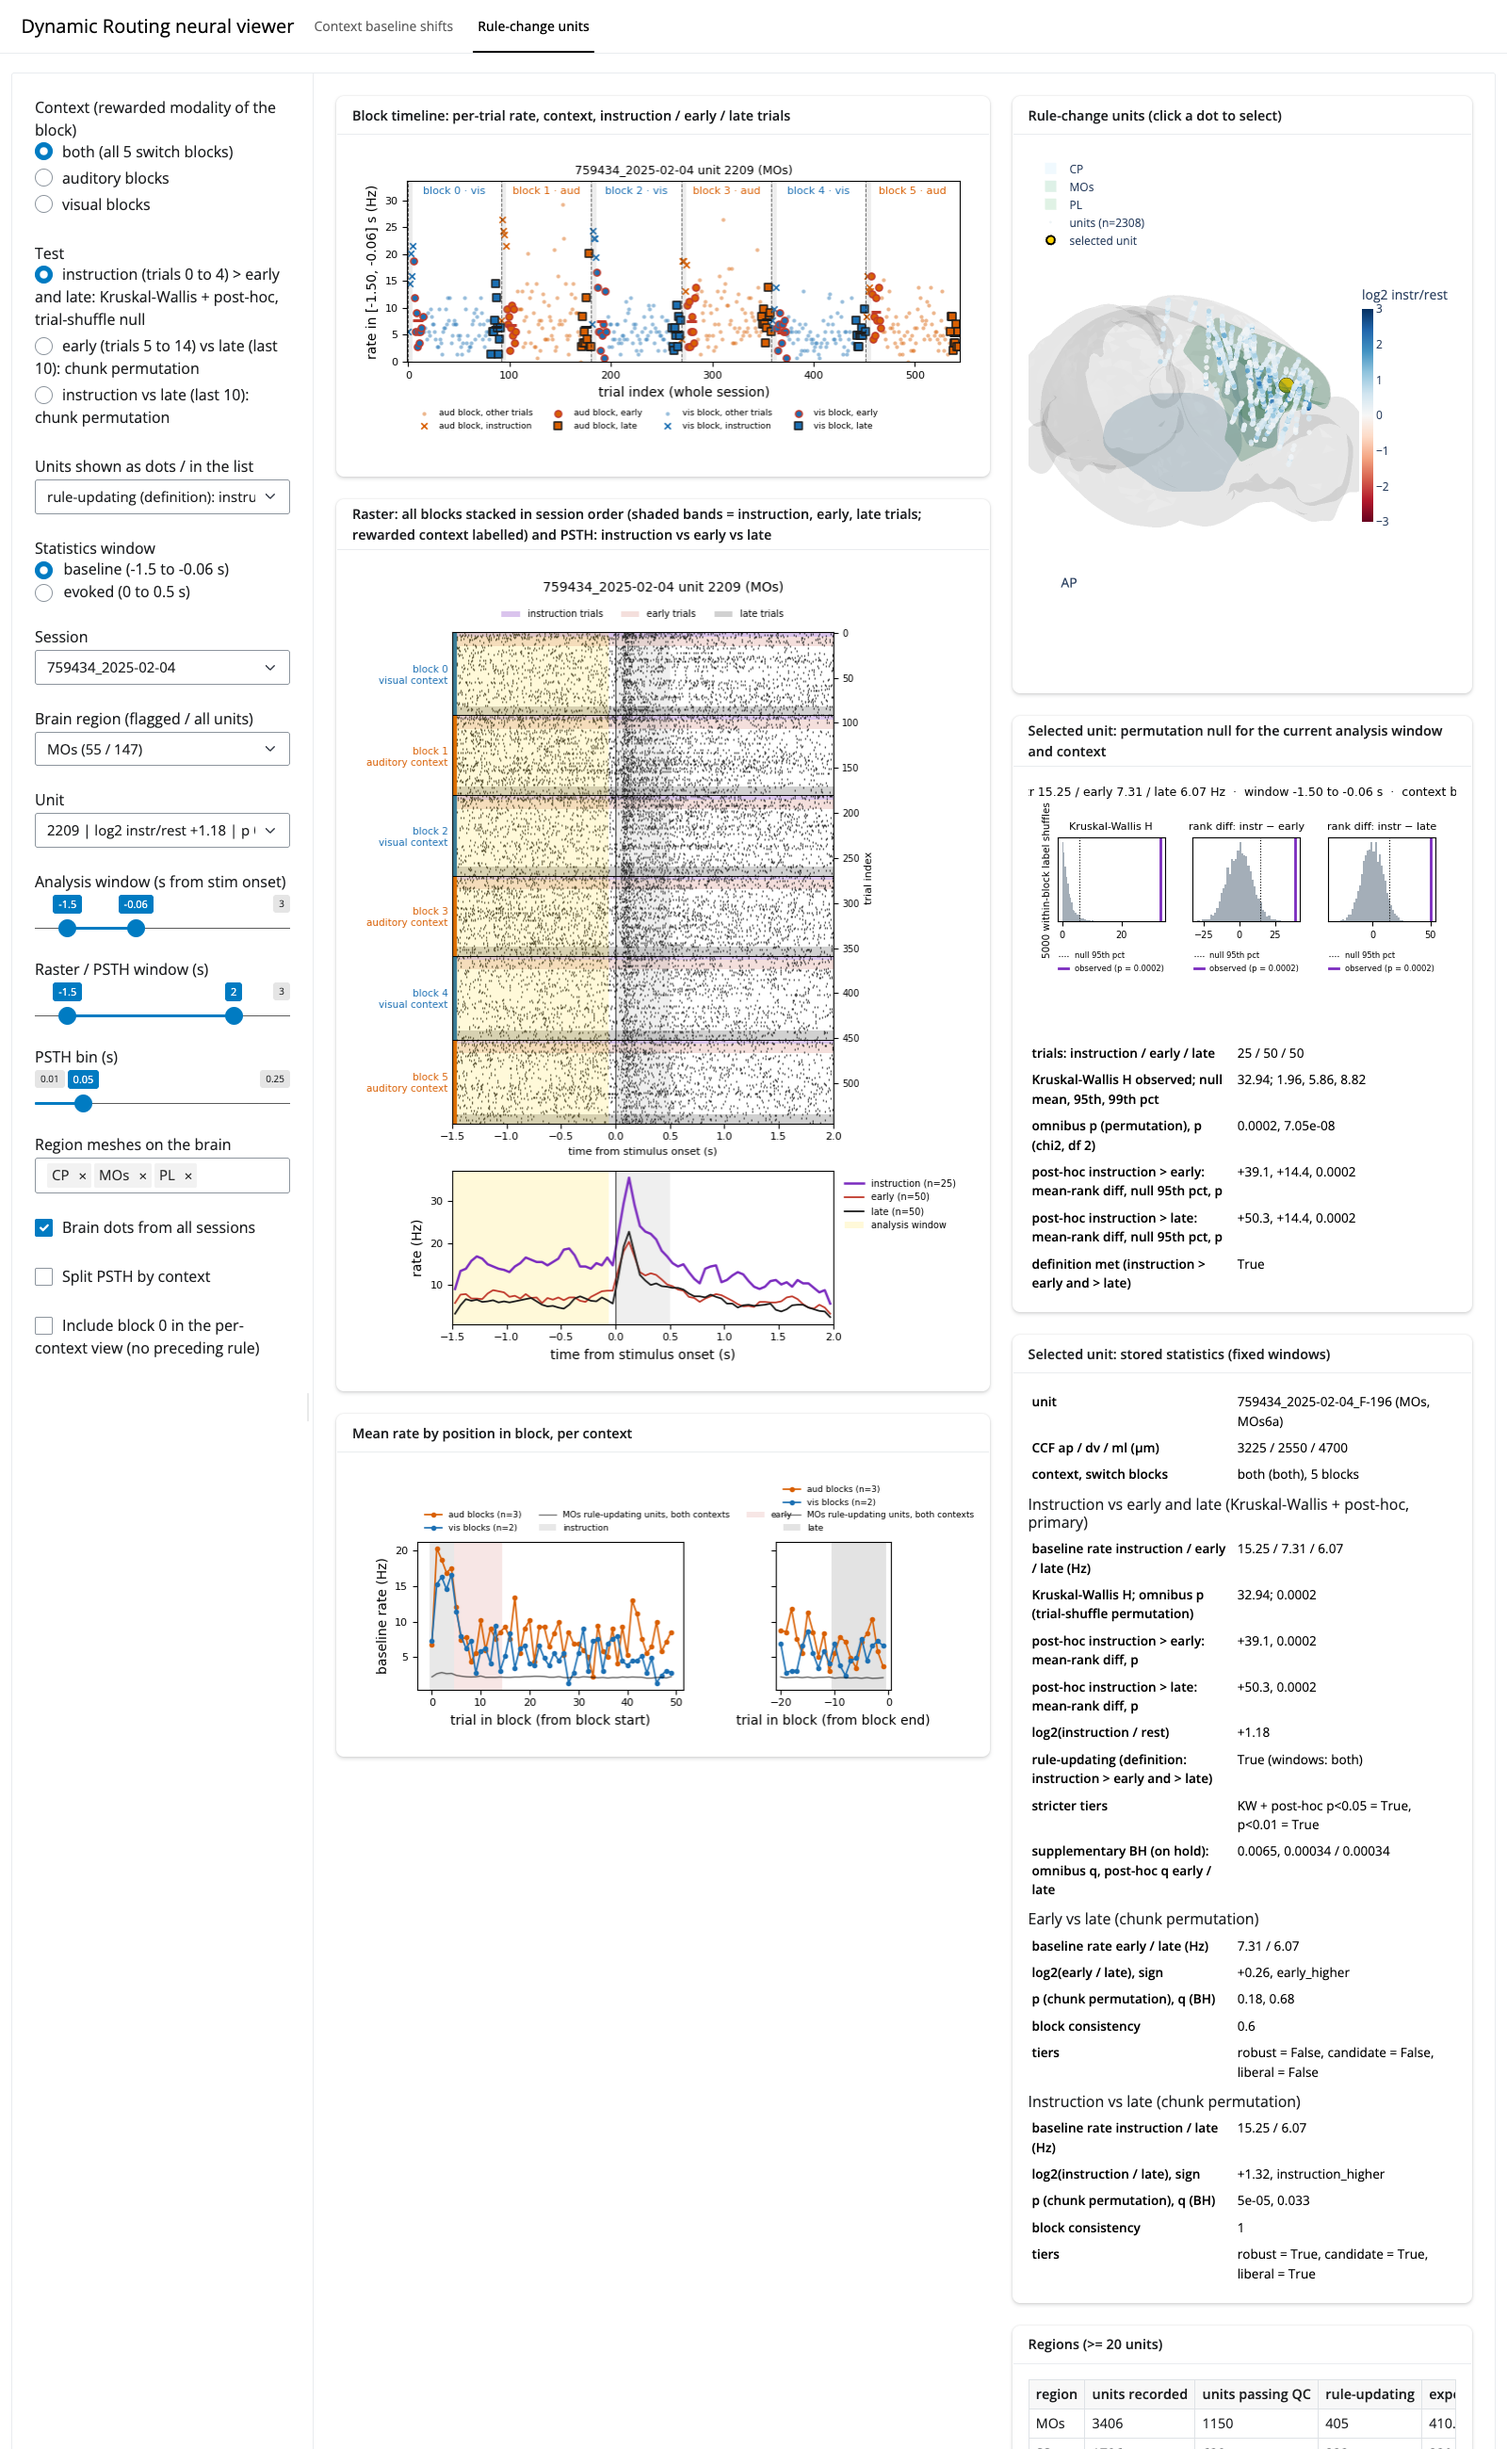
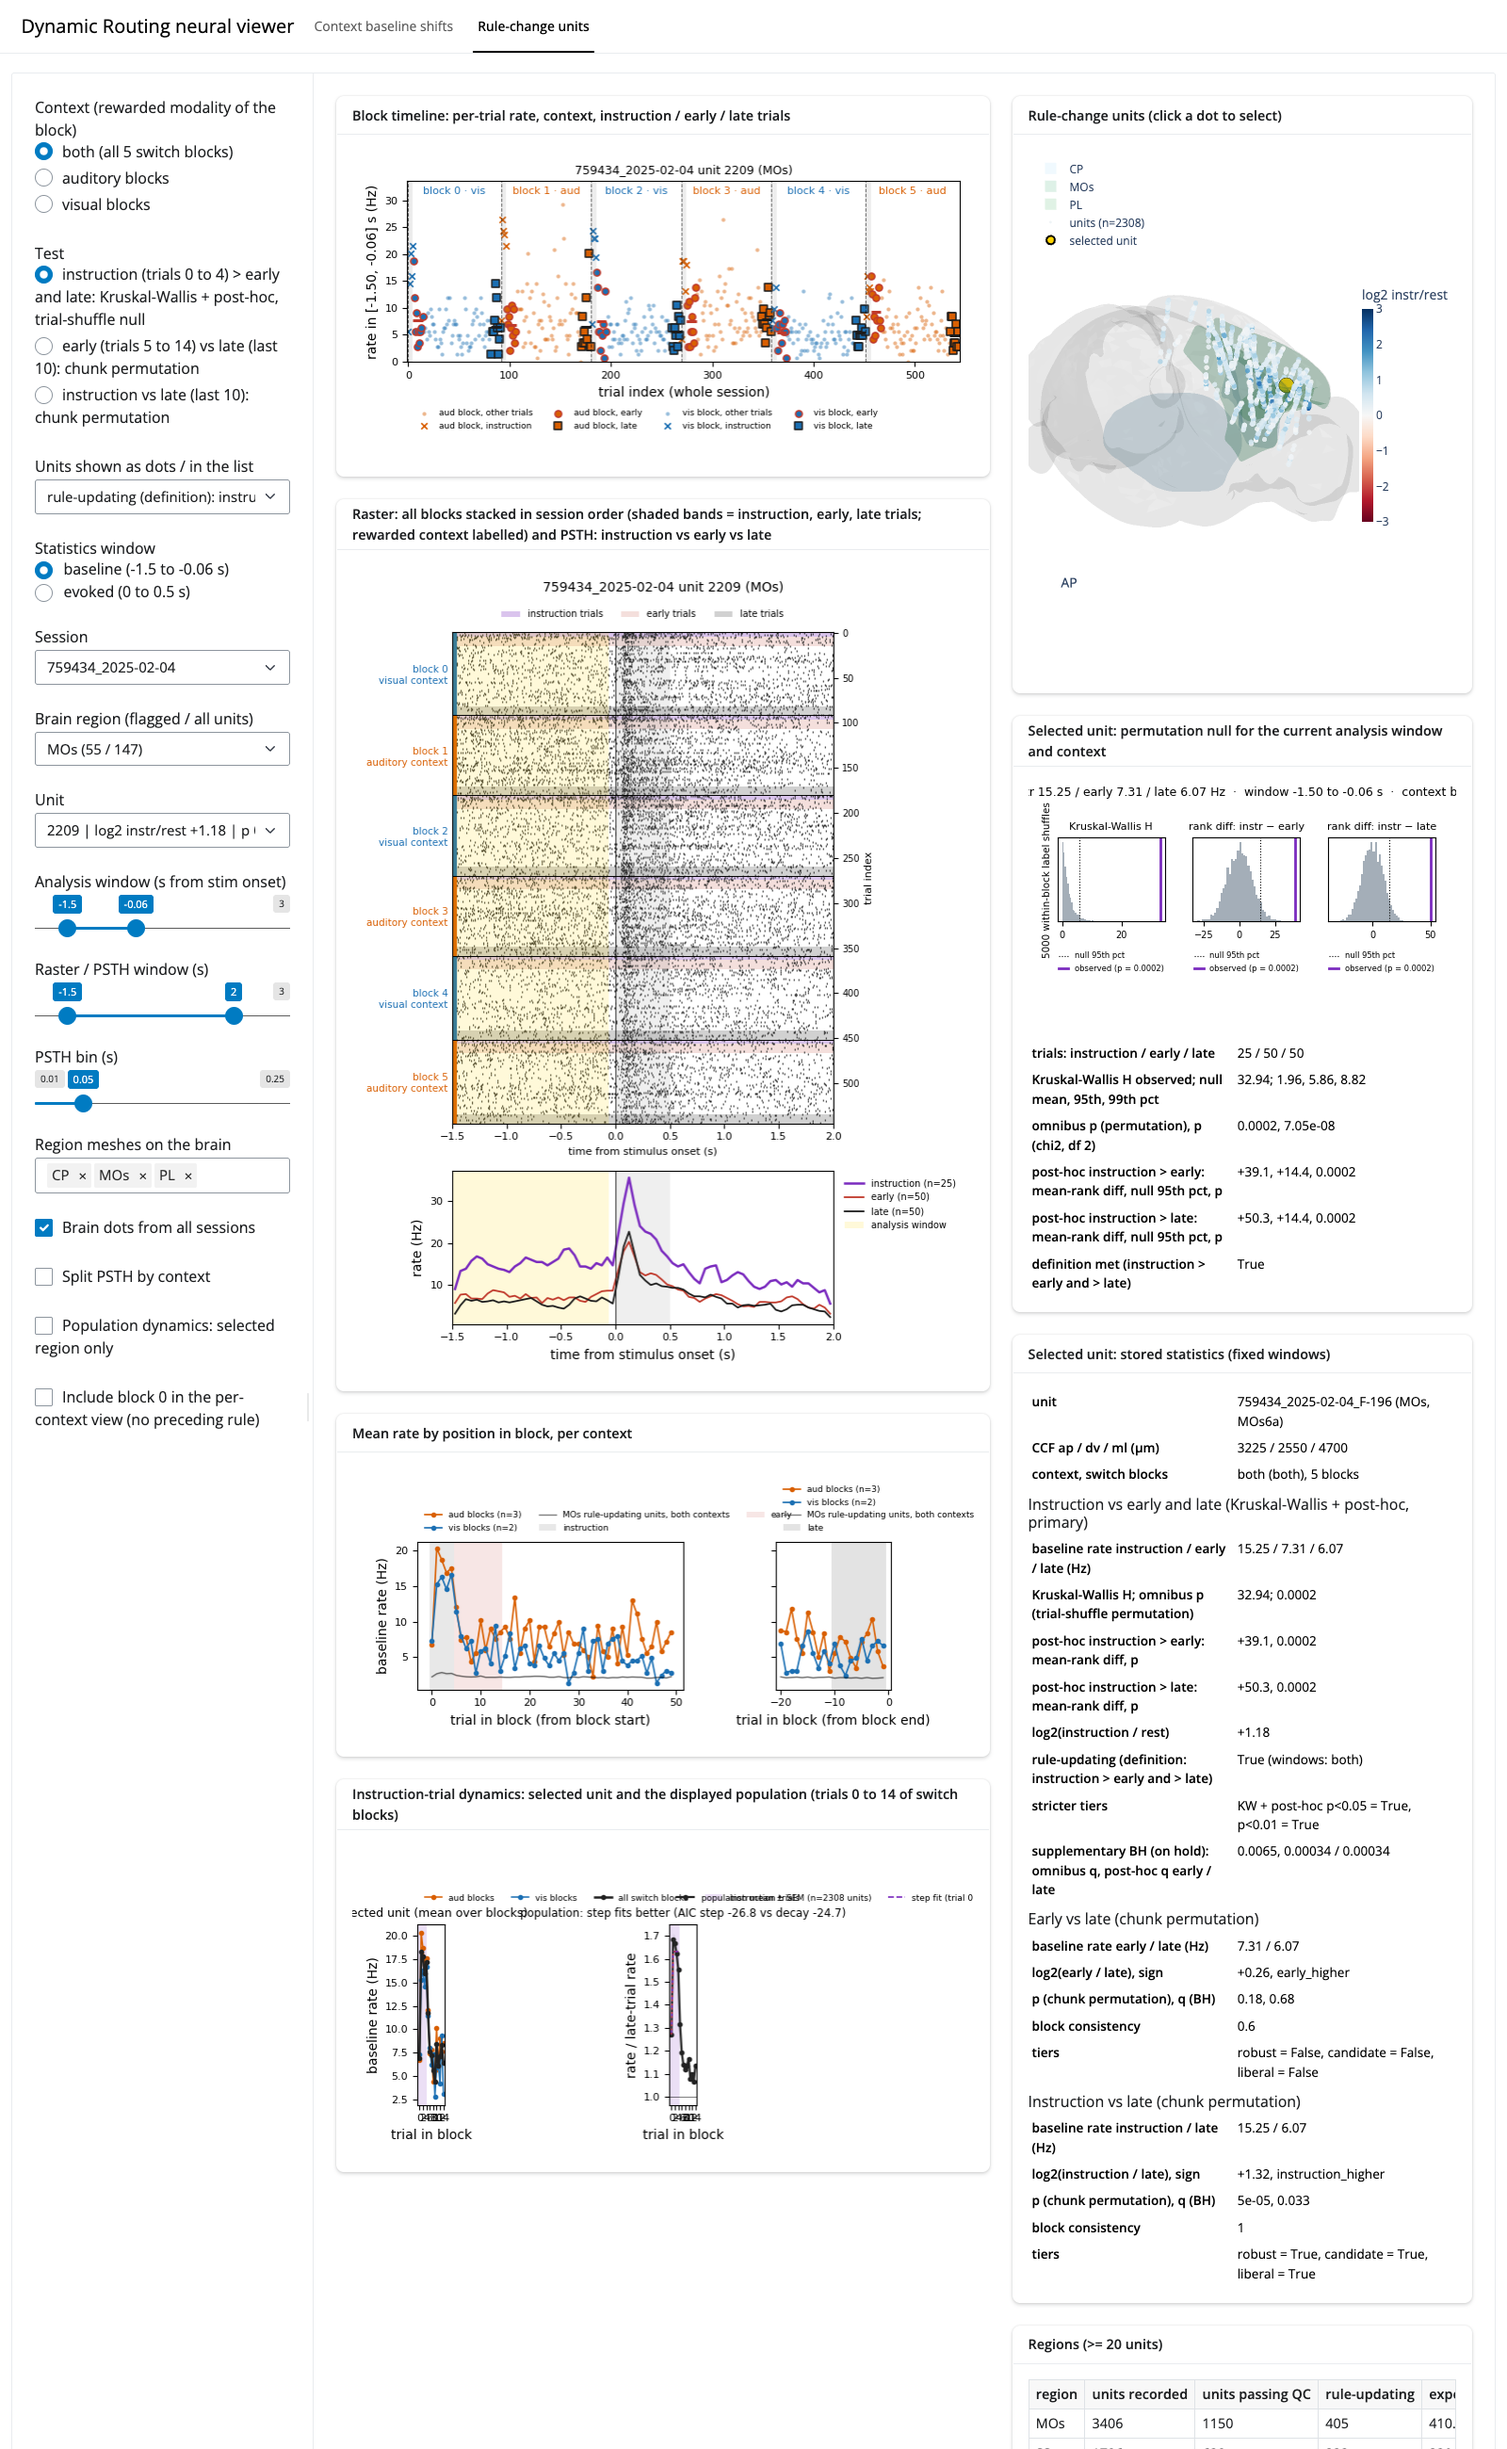
Tab 2: shaded-phase raster, legends outside axes, trial ticks, instruction-trial dynamics panel
Adds instruction_dynamics_plot (unit and population fold change over block positions 0-14 with
step-vs-exponential-decay AIC comparison), plain-spike raster with instruction/early/late bands and
right-axis trial ticks, legends moved outside all plot axes, Code Ocean run/run_app entrypoints.

Changed region(s): [[0.0312, 0.5296, 0.1562, 0.5919], [0.25, 0.7788, 0.3125, 0.8723], [0.4062, 0.7788, 0.4688, 0.8723]]

diff --git a/code/app_plots.py b/code/app_plots.py
@@ -391,3 +391,69 @@ def kw_null_plot(res: dict, title: str | None = None) -> plt.Figure:
     if title:
         fig.suptitle(title, fontsize=9)
     return fig
+
+
+# ----------------------------------------------------------------------------- instruction-trial dynamics
+def _fit_step_vs_decay(y: np.ndarray):
+    """Compare a step (trial 0 vs trials 1..4) with an exponential decay on 5 points; return dict with AICs."""
+    x = np.arange(len(y))
+    n = len(y)
+    # step: two means
+    pred_step = np.where(x == 0, y[0], y[1:].mean())
+    rss_step = ((y - pred_step) ** 2).sum()
+    # exponential decay: y = a*exp(-x/tau) + c, grid over tau, closed form for a, c
+    best = (np.inf, None)
+    for tau in np.geomspace(0.2, 20, 60):
+        e = np.exp(-x / tau)
+        A = np.column_stack([e, np.ones(n)])
+        coef, *_ = np.linalg.lstsq(A, y, rcond=None)
+        rss = ((y - A @ coef) ** 2).sum()
+        if rss < best[0]:
+            best = (rss, (coef[0], tau, coef[1]))
+    rss_dec = best[0]
+    aic = lambda rss, k: n * np.log(max(rss, 1e-12) / n) + 2 * k
+    return {"aic_step": aic(rss_step, 2), "aic_decay": aic(rss_dec, 3), "decay_params": best[1], "pred_step": pred_step}
+
+
+def instruction_dynamics_plot(unit_prof: pd.DataFrame, pop_prof: pd.DataFrame | None, n_pos: int = 15, instruction_n: int = 5,
+                              window: str = "baseline", pop_label: str = "", title: str | None = None) -> plt.Figure:
+    """Left: selected unit's mean rate at within-block positions 0..n_pos-1 (block_start-aligned profile), per context and
+    pooled. Right: population fold change (rate / unit's late-trial rate) over the same positions for the displayed
+    rule-updating set, mean and SEM, with a step-vs-exponential-decay comparison over the instruction trials.
+    pop_prof: long table with columns unit_key, rel_trial, fold (one row per unit x position)."""
+    fig, axes = plt.subplots(1, 2, figsize=(9, 3.0), layout="tight")
+    ax = axes[0]
+    for c, col, lw in (("aud", AUD, 1.1), ("vis", VIS, 1.1), ("both", "#222222", 1.8)):
+        p = unit_prof[(unit_prof["context"] == c) & (unit_prof["align"] == "block_start") & (unit_prof["rel_trial"] < n_pos)].sort_values("rel_trial")
+        if len(p):
+            ax.plot(p["rel_trial"], p["mean_rate"], marker="o", ms=3, lw=lw, color=col, label=f"{c} blocks" if c != "both" else "all switch blocks")
+    ax.axvspan(-0.5, instruction_n - 0.5, color=PHASE_COLOR["instruction"], alpha=0.15, lw=0, label="instruction trials")
+    ax.set_xlabel("trial in block"); ax.set_ylabel(f"{window} rate (Hz)"); ax.set_xticks(range(0, n_pos, 2)); ax.tick_params(labelsize=8)
+    ax.set_title("selected unit (mean over blocks)", fontsize=9)
+    ax.legend(fontsize=6.5, loc="lower left", bbox_to_anchor=(0, 1.08), ncol=4, frameon=False)
+    ax = axes[1]
+    if pop_prof is not None and len(pop_prof):
+        g = pop_prof.groupby("rel_trial")["fold"]
+        m, sem, n_units = g.mean(), g.sem(), g.size().max()
+        x = m.index.to_numpy()
+        ax.fill_between(x, m - sem, m + sem, color="#555555", alpha=0.18, lw=0)
+        ax.plot(x, m.to_numpy(), marker="o", ms=3, lw=1.6, color="#222222", label=f"population mean ± SEM (n={int(n_units)} units)")
+        y5 = m.reindex(range(instruction_n)).to_numpy()
+        if np.isfinite(y5).all():
+            fit = _fit_step_vs_decay(y5)
+            ax.plot(range(instruction_n), fit["pred_step"], color=PHASE_COLOR["instruction"], lw=1.2, ls="--", label="step fit (trial 0 vs 1-4)")
+            a, tau, c0 = fit["decay_params"]
+            ax.plot(np.arange(instruction_n), a * np.exp(-np.arange(instruction_n) / tau) + c0, color=EARLYC, lw=1.2, ls=":", label=f"exp. decay fit (tau={tau:.1f})")
+            better = "step" if fit["aic_step"] < fit["aic_decay"] else "exponential decay"
+            ax.set_title(f"population: {better} fits better (AIC step {fit['aic_step']:.1f} vs decay {fit['aic_decay']:.1f})", fontsize=8.5)
+        else:
+            ax.set_title("population", fontsize=9)
+        ax.axhline(1.0, color="k", lw=0.6, alpha=0.6)
+    else:
+        ax.text(0.5, 0.5, "no units in the current set", ha="center", va="center", transform=ax.transAxes, fontsize=9)
+    ax.axvspan(-0.5, instruction_n - 0.5, color=PHASE_COLOR["instruction"], alpha=0.15, lw=0)
+    ax.set_xlabel("trial in block"); ax.set_ylabel("rate / late-trial rate"); ax.set_xticks(range(0, n_pos, 2)); ax.tick_params(labelsize=8)
+    ax.legend(fontsize=6.5, loc="lower left", bbox_to_anchor=(0, 1.08), ncol=3, frameon=False)
+    if title:
+        fig.suptitle(title, fontsize=9, y=1.08)
+    return fig

diff --git a/code/app.py b/code/app.py
@@ -113,6 +113,7 @@ tab_rule = ui.nav_panel(
                                    selected="baseline", inline=True),
             *common_controls("r", (-1.5, -0.06), ["MOs", "CP", "PL"]),
             ui.input_checkbox("r_split_ctx", "Split PSTH by context", False),
+            ui.input_checkbox("r_pop_region", "Population dynamics: selected region only", False),
             ui.input_checkbox("r_first_block", "Include block 0 in the per-context view (no preceding rule)", False),
             width=320, open="always"),
         ui.layout_columns(
@@ -121,6 +122,8 @@ tab_rule = ui.nav_panel(
                 ui.card(ui.card_header("Raster: all blocks stacked in session order (shaded bands = instruction, early, late trials; rewarded context labelled) and PSTH: instruction vs early vs late"),
                         ui.output_plot("r_raster", height="860px")),
                 ui.card(ui.card_header("Mean rate by position in block, per context"), ui.output_plot("r_profile", height="290px")),
+                ui.card(ui.card_header("Instruction-trial dynamics: selected unit and the displayed population (trials 0 to 14 of switch blocks)"),
+                        ui.output_plot("r_dynamics", height="330px")),
             ),
             ui.div(
                 ui.card(ui.card_header("Rule-change units (click a dot to select)"), output_widget("brain_rule", height="560px")),
@@ -452,6 +455,35 @@ def server(input, output, session):
         w = input.r_window()
         return PL.aligned_means_plot(D.unit_profile(sid, ui_, w), D.structure_profile(r_row()["structure"], w), window=w,
                                      instruction_n=INSTR_N, early_window=EARLY_WIN, late_n=LATE_N)
+
+    @reactive.calc
+    def r_population_profiles():
+        """Fold-change profiles (block_start positions 0..14, pooled contexts) for the displayed rule-updating set."""
+        t = r_table()
+        flag = r_flag()
+        if flag:
+            t = t[t[flag]]
+        if not input.r_all_sessions():
+            t = t[t["session_id"] == input.r_session()]
+        if input.r_pop_region():
+            t = t[t["structure"] == input.r_structure()]
+        if t.empty:
+            return pd.DataFrame(columns=["unit_key", "rel_trial", "fold"])
+        keys = t[["session_id", "unit_index"]].drop_duplicates()
+        prof = D.rule_profiles()
+        prof = prof[(prof["context"] == "both") & (prof["window"] == input.r_window())].merge(keys, on=["session_id", "unit_index"])
+        late = prof[(prof["align"] == "block_end") & (prof["rel_trial"] >= -LATE_N)].groupby(["session_id", "unit_index"])["mean_rate"].mean().rename("late")
+        start = prof[(prof["align"] == "block_start") & (prof["rel_trial"] < 15)].merge(late.reset_index(), on=["session_id", "unit_index"])
+        start["fold"] = (start["mean_rate"] + 0.1) / (start["late"] + 0.1)
+        start["unit_key"] = start["session_id"] + ":" + start["unit_index"].astype(str)
+        return start[["unit_key", "rel_trial", "fold"]]
+
+    @render.plot
+    def r_dynamics():
+        sid, ui_ = r_key()
+        w = input.r_window()
+        return PL.instruction_dynamics_plot(D.unit_profile(sid, ui_, w), r_population_profiles(), n_pos=15, instruction_n=INSTR_N, window=w,
+                                            title=f"{sid} unit {ui_} ({r_row()['structure']}); population = current dot set, {w} window")
 
     @render_widget
     def brain_rule():

diff --git a/work/rule-change-windows-v2/README.md b/work/rule-change-windows-v2/README.md
@@ -37,6 +37,7 @@ The app was restructured: controls in a sidebar, plots column and brain column. 
 4. Checks extended (KW vs scipy, pseudo-phase calibration of the flag, tier invariants, profile recomputation at block start and end): 26/26 PASS on the default session and on 742903 after fixing a variable-shadowing bug the assessor found.
 5. App rebuilt with sidebar layout and the three new tab 2 plots; rasters reordered chronologically after inspecting the first screenshot.
 6. Docs updated (stale duplicated v1 sections removed from `code/README.md` after the assessor flagged them); `check_app.py` 3/3 PASS; screenshots inspected.
+7b. Added after assessment (scientist request, 2026-09-17): instruction-trial dynamics panel on tab 2 (unit and population fold-change over block positions 0 to 14 with step-vs-decay fit); our evoked-window population shows fold 1.5 on trial 0, 2.6 to 2.8 on trials 1 to 4, 1.4 on trial 5, 1.0 by trial 7, matching AutoDiscovery followup-III node_4_16 / node_4_45. Raster switched to plain spikes with shaded phase bands, legends moved outside axes, trial-index ticks added; check_app 3/3.
 7. First assessment returned partial (checks/screenshots not re-run after the definition change, check-script bug, stale docs, broken screenshot). All four points addressed: analysis re-run with per-unit null pass rates, checks 26/26 on two sessions, docs cleaned, screenshots regenerated after the final app changes.
 
 Deviations from the (user-specified) plan: none beyond the statistical changes the scientist requested mid-execution, all recorded above. Known limitations: per-context tests with 2 or 3 blocks are conservative; the KW omnibus alone is anticonservative under autocorrelation (mitigated by the post-hoc requirements); the dot-click path remains untested in a browser.

diff --git a/code/README.md b/code/README.md
@@ -171,7 +171,10 @@ both), test (KW instruction > early and late, or the two chunk-permutation contr
 statistics window; dots, unit list and region table all follow the selected window. Tab 2 plots:
 whole-session block timeline; one raster with all blocks stacked in session order (plain spike
 marks, shaded bands for instruction / early / late trials, rewarded context labelled per block) with an instruction / early / late PSTH; block-start
-and block-end aligned means per context; and, for the selected unit, the permutation null recomputed
+and block-end aligned means per context; an instruction-trial dynamics panel (`instruction_dynamics_plot`: the selected unit's mean rate at
+block positions 0 to 14 per context, and the displayed population's fold change relative to each unit's
+late-trial rate with SEM, plus a step-vs-exponential-decay AIC comparison over the five instruction trials,
+replicating AutoDiscovery followup-III experiments node_4_16 / node_4_45); and, for the selected unit, the permutation null recomputed
 live for the current analysis window and context (`kw_null_for_unit`, 5,000 shuffles) with the
 observed statistics. The region table lists units recorded (all sorted units, from
 `sessions_manifest.json`), QC-pass units, rule-updating units for the current selection, the number
